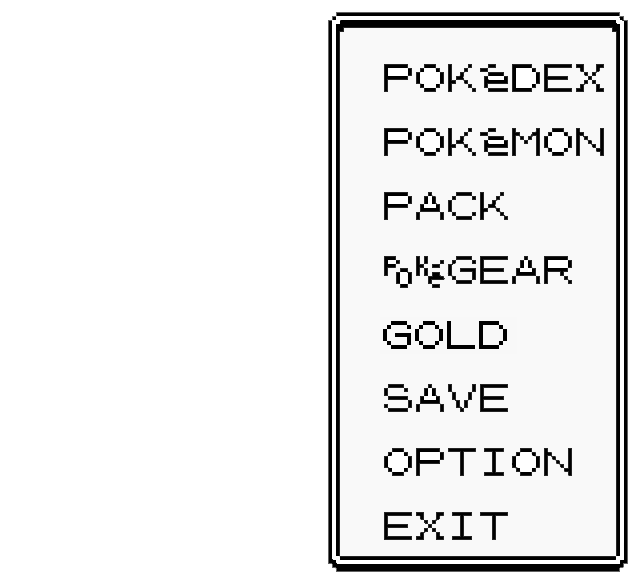
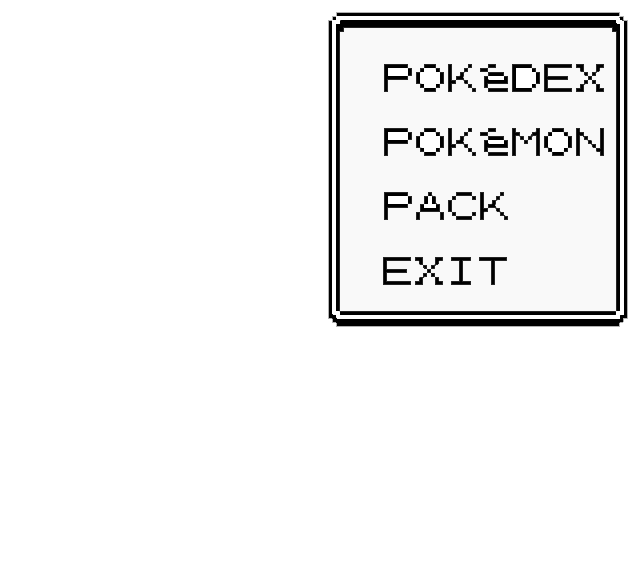
메뉴이미지 변경

diff --git a/Menu_state.py b/Menu_state.py
@@ -21,12 +21,12 @@ def handle_events():
     for event in events:
         if event.type == SDL_KEYDOWN:
             if event.key == SDLK_DOWN:
-                CusorY = (CusorY + 1) % 8
+                CusorY = (CusorY + 1) % 4
 
             elif event.key == SDLK_UP:
                 CusorY = CusorY - 1
                 if CusorY == -1:
-                    CusorY = 7
+                    CusorY = 3
             elif event.key == SDLK_ESCAPE:
                 game_framework.pop_state()
 
@@ -39,7 +39,7 @@ def handle_events():
                     pass
                 elif CusorY == 2:
                     pass
-                elif CusorY == 7:
+                elif CusorY == 3:
                     game_framework.pop_state()
 
 def update():
